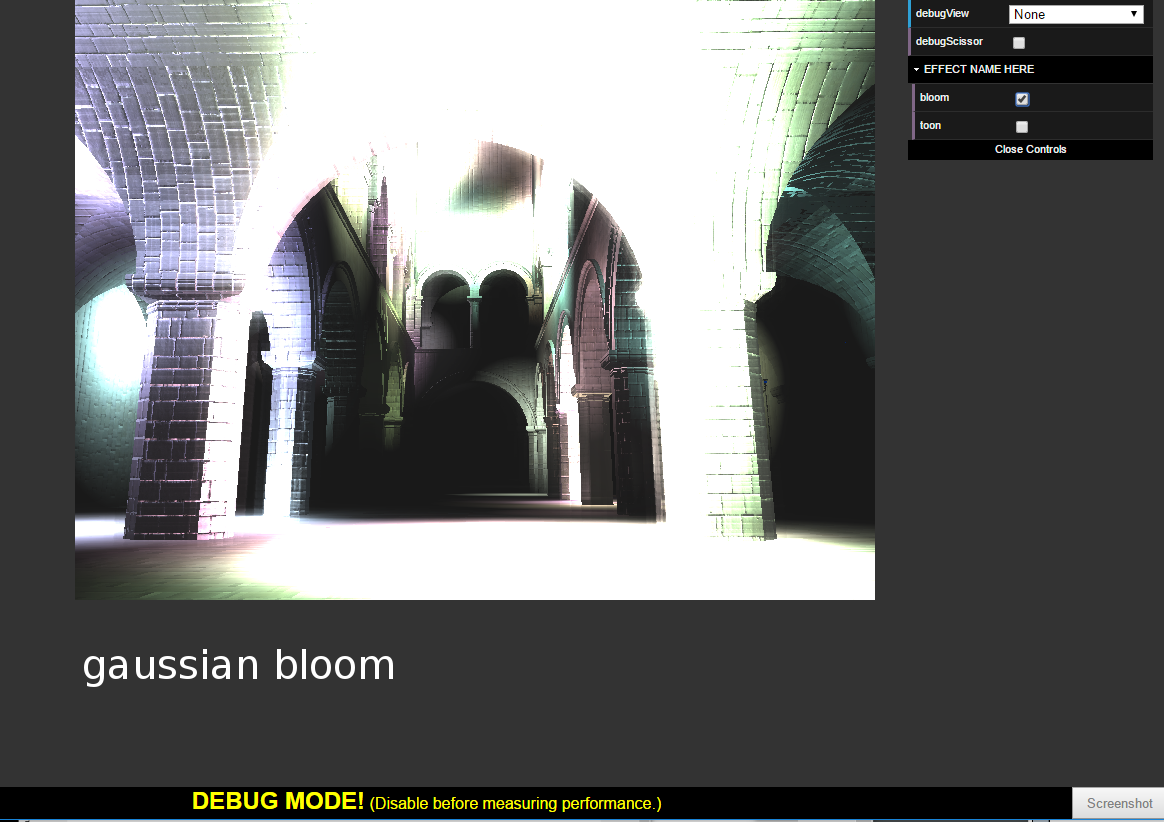
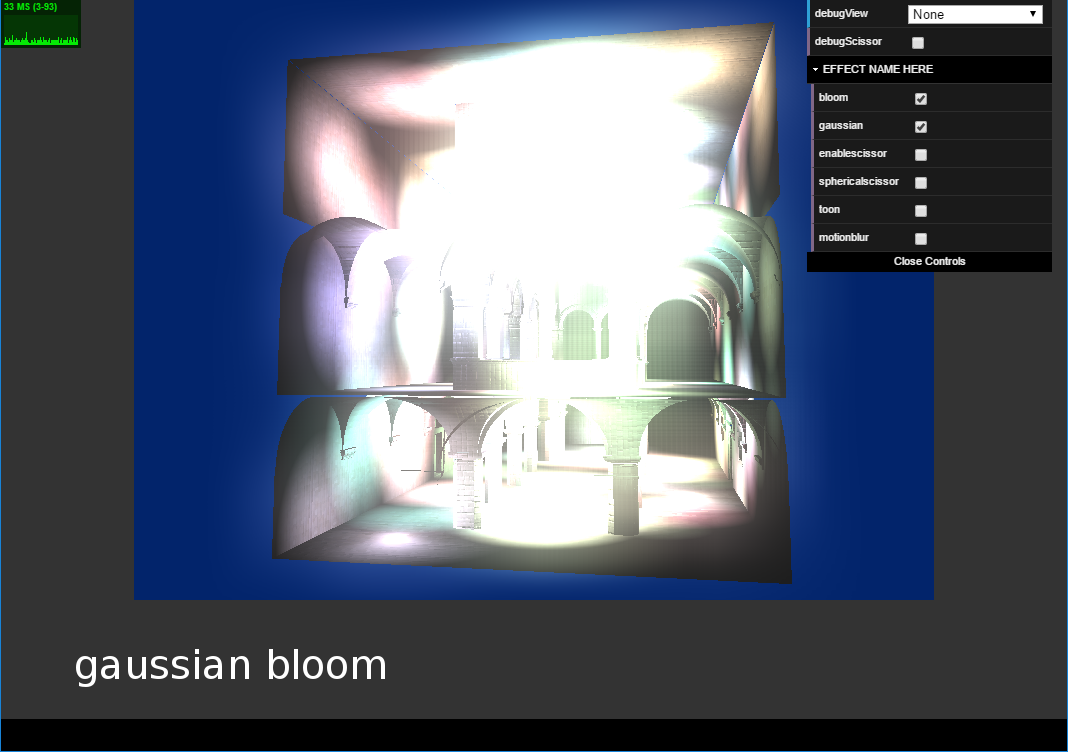
added readme and updated bloom image

diff --git a/README.md b/README.md
@@ -3,9 +3,9 @@ WebGL Deferred Shading
 
 **University of Pennsylvania, CIS 565: GPU Programming and Architecture, Project 5**
 
-* (TODO) YOUR NAME HERE
-* Tested on: (TODO) **Google Chrome 222.2** on
-  Windows 22, i7-2222 @ 2.22GHz 22GB, GTX 222 222MB (Moore 2222 Lab)
+* (TODO) Rony Edde
+* Tested on: **Google Chrome 222.2** on
+  Windows 10, i7-6700k @ 4.00GHz 64GB, GTX 980M 8GB (Personal Laptop)
 
 ### Live Online
 
@@ -13,17 +13,77 @@ WebGL Deferred Shading
 
 ### Demo Video/GIF
 
-[![](img/video.png)](TODO)
+![fov1](./img/layers.gif)
 
-### (TODO: Your README)
+### Description
+This is a WebGL deferred renderer.
+  * Passes are rendered to the frame buffer, then composited in a deferred shader.
+  The deferred shaders shade and light the resulting fragments by their attributes.
+  Normals, normal maps, positions, texture and depth are precomputed and the deferred
+  pass computes the lighting and shading of the final image.
+  
+  * Pass layout.
+    * Z-depth.
+      * This is the depth pass that computes the distance to camera.  This is useful
+      for multiple post effects such as depth of field.
+      ![zdepth](./img/depth.png)
+    * Position.
+      * This is a position pass where every fragment stores the xyz positions of the rendered geometry.
+      ![pos](./img/position.png)
+    * Geometry Normal
+      * This is a pass for the geometric normals coming straight from the mesh geometry
+      ![gnorm](./img/geometry_normal.png)
+    * Color Map
+      * This is the texture and color of the geometry again with no shading.  Only the texture color is applied.
+      ![colormap](./img/colormap.png)
+    * Normal Map
+      * This is similar to the texture pass but it contains the normal map texture for compting fake surface detail shading.
+      ![normalmap](./img/normalamap.png)
+    * Surface Normal
+      * This is a final calculation of the geometric normal with the normal map applied to it.
+      ![surfacenormal](./img/surface_normal.png)
+    
+  * Final result with all passes combined
+    * After combining all the layers and computing the blinn-phong lighting model, here's the final result:  
+      ![blinn_phong](./img/blinn_phong.png)
+      
+  * Final result with a toon shader
+    * Using the blinn-phong shader, we can extend it by computing the dot product of the surface normal and camera and accentuate the shading.  There are 3 color intensities chosen.  Black for perpendicular vectors, half color for facing geometry with less than 0.5 value and full color for less than 0.25.
+       ![toon](./img/toon.png)
 
-*DO NOT* leave the README to the last minute! It is a crucial part of the
-project, and we will not be able to grade you without a good README.
-
-This assignment has a considerable amount of performance analysis compared
-to implementation work. Complete the implementation early to leave time!
-
-
+  * Post processing
+    * Bloom:  
+      By blurring the final rendered image and compositing it on top with a gl blend function, we can add a bloom post process effect.
+      There are 2 modes in the bloom shader implemented.  Square blur which is the default and gaussian blur which is computed for every       pixel. 
+      Here's the result:  
+      ![gaussian_bloom](./img/gaussian_bloom.png)
+      
+    * Motion blur  
+      By sampling the camera motion and computing the difference transformation matrix, we can gereate motion vectors and use them to  generate blur in that direction.  Shader version 100 doesn't support matrix operations so we're forced to compute the difference beforehand which is not a bad idea since the shader will have to do less work over an unvarying variable, however the THREE.js precision isn't as good as expected so we get a few artifacts when the camera is slowing down to a complete stop.  Still the results are not too bad:  
+      ![motion_blur](./img/motion_blur.png)
+      
+     
+     * Optimizations:
+       Enabling scissor tests dramatically improves performance.  Rendering only the square that the fragments overlap the sphere radius.  
+       The initial mode with scissor test is shown here: 
+       ![scissor_test](./img/scissor_test.png)
+       
+       We can even go further by rendering a sphere as an instance for the scissor test:  
+       ![instance_sphere](./img/instance_sphere.png)
+       
+       
+  * Performance analysis with scissor tests:  
+    * Running the scissor test on 20 lights has almost no impact on performance.  It's only when increase the number of lights to about 100 and more that we truly see the benefit of the scissor test.  Here are the results:  
+    ![benchmarks](./img/benchmarks.png)  
+    
+    We can clearly see an improvement inperformance.  The time per frame is halved.  This is particularly noticeable when using gaussian bloom since the gaussian computation is heavy.
+    
+    
+    THANK YOU
+    
+    
+    
+    
 ### Credits
 
 * [Three.js](https://github.com/mrdoob/three.js) by [@mrdoob](https://github.com/mrdoob) and contributors
